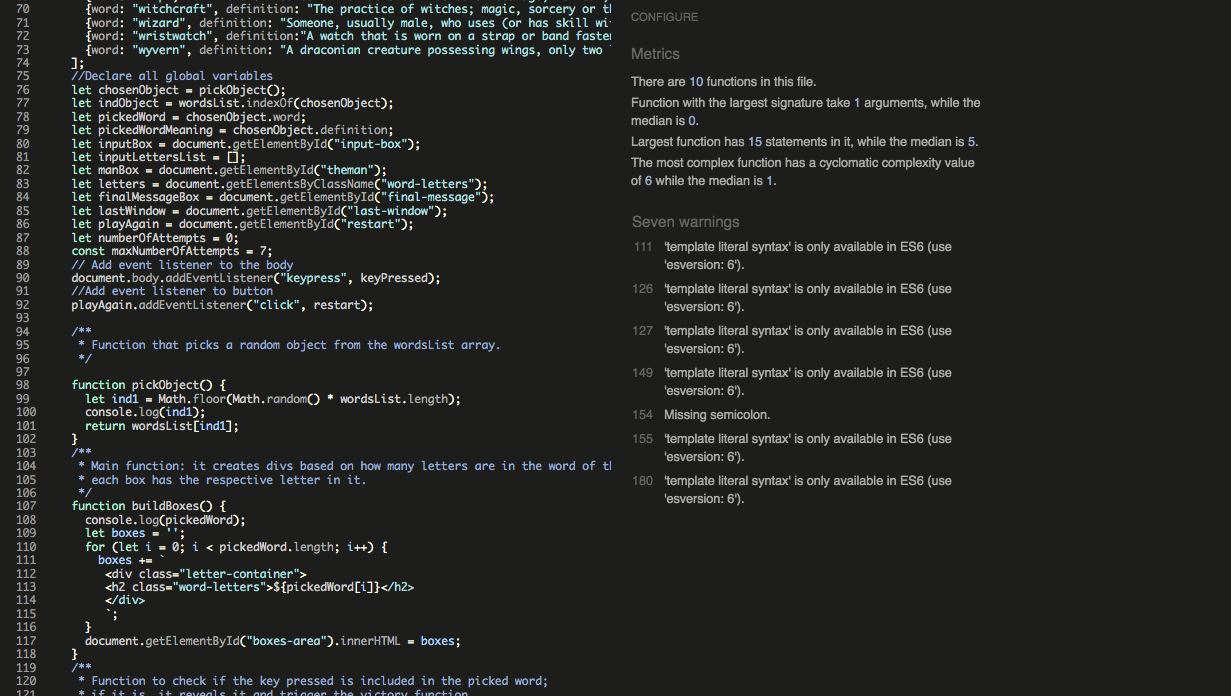
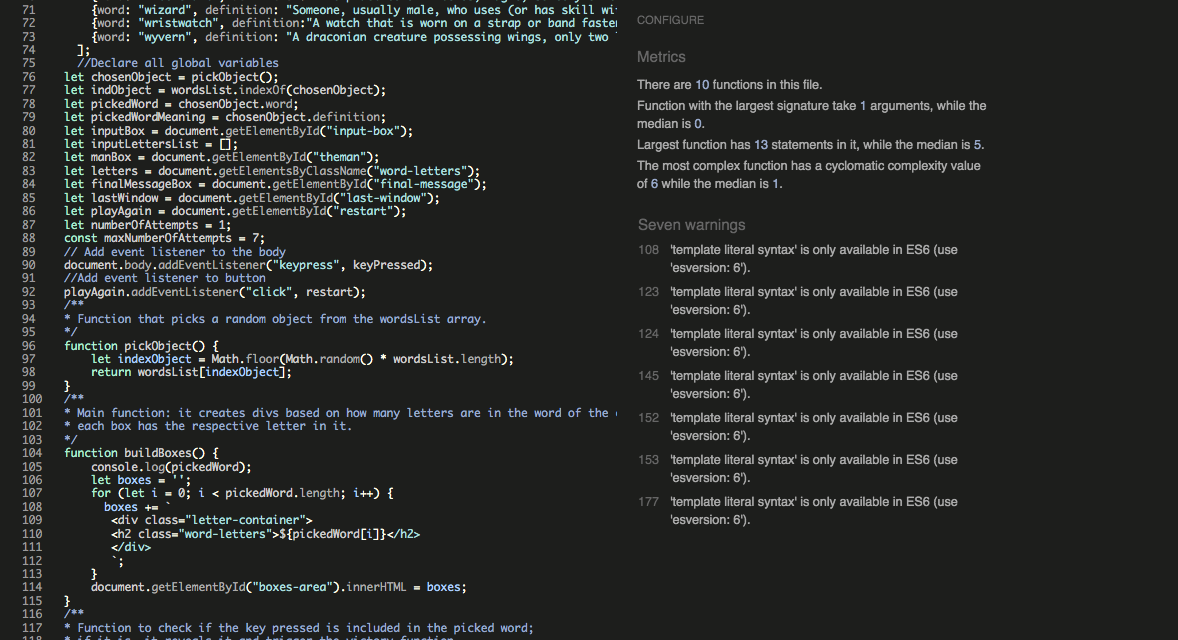
Final tidy ups

Changed region(s): [[0.0, 0.0, 0.8557, 1.0]]

diff --git a/assets/js/script.js b/assets/js/script.js
@@ -94,9 +94,8 @@ playAgain.addEventListener("click", restart);
 * Function that picks a random object from the wordsList array.
 */
 function pickObject() {
-    let ind1 = Math.floor(Math.random() * wordsList.length);
-    console.log(ind1);
-    return wordsList[ind1];
+    let indexObject = Math.floor(Math.random() * wordsList.length);
+    return wordsList[indexObject];
 }
 /**
 * Main function: it creates divs based on how many letters are in the word of the chosen object;
@@ -149,7 +148,7 @@ function buildHangman() {
     else if (numberOfAttempts === maxNumberOfAttempts) {
         incrementLost();
         changeStyles();
-        removeObject()
+        removeObject();
         manBox.style.backgroundImage = `url(assets/images/img${numberOfAttempts}.png)`;
         finalMessageBox.innerHTML = `
            <h3>Oh nooo!<br>You haven't found the word this time... but, if you learn from a loss you have not lost!<br>The word was:</h3>
@@ -170,7 +169,7 @@ function victory() {
       } else {
         results.push("false");
       }
-        if (results.length === letters.length && results[i] === "true" && results.includes("false") === false) {
+      if (results.length === letters.length && results[i] === "true" && results.includes("false") === false) {
         incrementWon();
         changeStyles();
         removeObject();
@@ -180,7 +179,7 @@ function victory() {
           <h4><strong>${pickedWord}</strong>:</h4> 
           <p><em>${pickedWordMeaning}</em></p>
           `;
-          document.body.removeEventListener("keypress", keyPressed);
+        document.body.removeEventListener("keypress", keyPressed);
       }      
     }
 }
@@ -214,7 +213,6 @@ function changeStyles() {
 */
 function removeObject () {
     wordsList.splice(indObject, 1);
-    console.log(wordsList);
 }
 /**
 * Restarts the game resetting the screen to the initial set up;
@@ -230,9 +228,7 @@ function restart () {
     inputBox.innerHTML = "<h2>Letters tried:</h2>";
     let newChosenObject = pickObject();
     indObject = wordsList.indexOf(newChosenObject);
-    console.log(indObject);
     pickedWord = newChosenObject.word;
-    console.log(pickedWord);
     pickedWordMeaning = newChosenObject.definition;
     buildBoxes();
     inputLettersList = [];

diff --git a/README.md b/README.md
@@ -9,40 +9,48 @@ Hangman's target is adults looking for a short game with no long-term commitment
 
 ### The Landing Page
  <img src ="readme-images/landing-page.png">
+
 - The page landing includes a background image with all the other features overlaid to allow the user to see the content of the site.
 
 ### The Instructions
 <img src="readme-images/instructions.png">
+
 - In this section, the user has an explanation of how the game works.
 - This section will desappear when the game starts leaving room for the Input section.
 
 ### The Input Board
 <img src="readme-images/input.png">
+
 - This section appears when the user types its first guessed letter, and it keeps adding each letter typed.
 - This part is a reminder of the letters typed, and it helps the user to proceed with the game without making the same mistakes.
 
 ### The Hangman
 <img src="readme-images/hangman.png">
+
 - This section changes the background every time the user types the wrong letter building the "hangman"; when the hangman is complete, the game is over, and the user loses. However, if the user guesses the word before then, it will display the victory background image.
 - From this feature, the user can see how close he/she is to lose the game.
 
 ### The Score
 <img src="readme-images/scores.png">
+
 - The score will update every time the game is over: if the user wins, the score under the happy face will increase by 1; if the user loses, the score under the sad face will increase by 1.
 - From this feature, the user can see how many games have been lost or won.
 
 ### The Underscores
 <img src="readme-images/letters.png">
+
 - This section generates every time the game is loaded. Every underscore represents a letter of the chosen word. When the user guesses the correct letter, it gets displayed in the respective space.
 - From this feature, the user can see how long the word is and, through correct guessings,  the letter's position. This section helps the user to win the game.
 
 ### The Final Message
 <img src="readme-images/final-message.png">
+
 - This section pops up when the game is over. If the user wins, it shows a message of congratulations, otherwise of encouragement. Either way, below the statement, it displays the secret word, its definition, and the "play again!" button.
 - This section acknowledges the user of the game's result and enriches the user's vocabulary by defining the meaning of the word that could have been previously unknown. 
 
 ### The "Play Again!" Button
 <img src="readme-images/restart.png">
+
 - This clickable button restarts the game without affecting the scores.
 It resets the hangman, the input section, and along with the word, it updates the underscore section.
 - This button is displayed when the game is over and allows the user to play again.
@@ -54,7 +62,7 @@ Testing:
 <table>
 <thead>
 <tr>
-<th>Action or Happening</th>
+<th>Action or Event</th>
 <th>Expected Result</th>
 <th>Successful?<th>
 </tr>
@@ -71,13 +79,13 @@ Testing:
 <td>Yes</td>
 </tr>
 <tr>
-<td>Type any key</td>
-<td>If the secret word includes the key, it appears in its space</td>
+<td>Type a key that is in the secret word</td>
+<td>The key appears in its space</td>
 <td>Yes</td>
 </tr>
 <tr>
-<td>Type any key</td>
-<td>If the secret word does not include the key, start to build the hangman</td>
+<td>Type a key that is not in the secret word</td>
+<td>Start to build the hangman</td>
 <td>Yes</td>
 </tr>
 <tr>
@@ -91,17 +99,11 @@ Testing:
 </tr>
 <tr>
 <td>The game is over</td>
-<td>Show the final message and play again button</td>
-<td>Yes</td>
-</tr>
-<tr>
-<td>The game is over</td>
-<td>Remove the object containing the word from the list of candidates for the next game</td>
-<td>Yes</td>
-</tr>
-<tr>
-<td>The game is over</td>
-<td>Stop taking any key</td>
+<td>
+- Show the final message and play again button<br>
+- Remove the object containing the word from the list of candidates for the next game<br>
+- Stop taking any key
+</td>
 <td>Yes</td>
 </tr>
 <tr>
@@ -112,6 +114,7 @@ Testing:
 <tr>
 </tbody>
 </table>
+
 
 - All the pages went through Lighthouse in dev tools, giving positive results for readability, color contrast, and accessibility:
 <img src="readme-images/lighthouse.png">
@@ -126,6 +129,7 @@ No errors were found when passing through the official [(JSHint) validator](http
 even though some warning messages have been detected due to the usage of 'template literal syntax'.
 <img src ="readme-images/jshint.png">
 
+- Some console.log have also been kept for development.
 ## Bugs:
 ### First Bug
 - When pressing the letters not included in the secret word, I noticed that the image of the hangman wasn't changing.
@@ -159,14 +163,15 @@ To work on the code from a local device, the steps to clone the repository are a
 Some of the structure and contents for the README.md file were taken from the Tastes Of Autumn project.
 
 ### Media
-The images were taken from:
-- [Shutterstock](https://www.shutterstock.com/image-photo/wooden-color-pencils-on-white-paper-1005954823) for the body background;
-- [Shutterstock](https://www.shutterstock.com/image-photo/close-white-ripped-piece-paper-on-226006654) for the final message background;
-- [Pexels](https://www.pexels.com/it-it/foto/gomma-da-cancellare-pelikan-br-40-rossa-e-blu-su-superficie-bianca-35202/) for the play again button;
-- The developer drew the background images of the hangman.
-- The screenshot of the website on different ports was from [Mockup screen generator](https://ui.dev/amiresponsive);
+- The images were taken from:
+  - [Shutterstock](https://www.shutterstock.com/image-photo/wooden-color-pencils-on-white-paper-1005954823) for the body background;
+  - [Shutterstock](https://www.shutterstock.com/image-photo/close-white-ripped-piece-paper-on-226006654) for the final message background;
+  - [Pexels](https://www.pexels.com/it-it/foto/gomma-da-cancellare-pelikan-br-40-rossa-e-blu-su-superficie-bianca-35202/) for the play again button;
+  - The developer drew the background images of the hangman.
+  - The screenshot of the website on different ports was from [Mockup screen generator](https://ui.dev/amiresponsive);
+
 - The fonts were taken from [Google Fonts](https://fonts.google.com/);
-- The favicons was generated and taken from [Faviocon](https://favicon.io/)];
+- The favicons was generated and taken from [Faviocon](https://favicon.io/);
 - The words were taken from a list in [hangmanwords](https://www.hangmanwords.com/words)
 - The words definitions were taken from [Wictionary](https://en.wiktionary.org/wiki/Wiktionary:Main_Page).
 - The body background image was compressed in [Tinyjpg](https://tinyjpg.com/);
